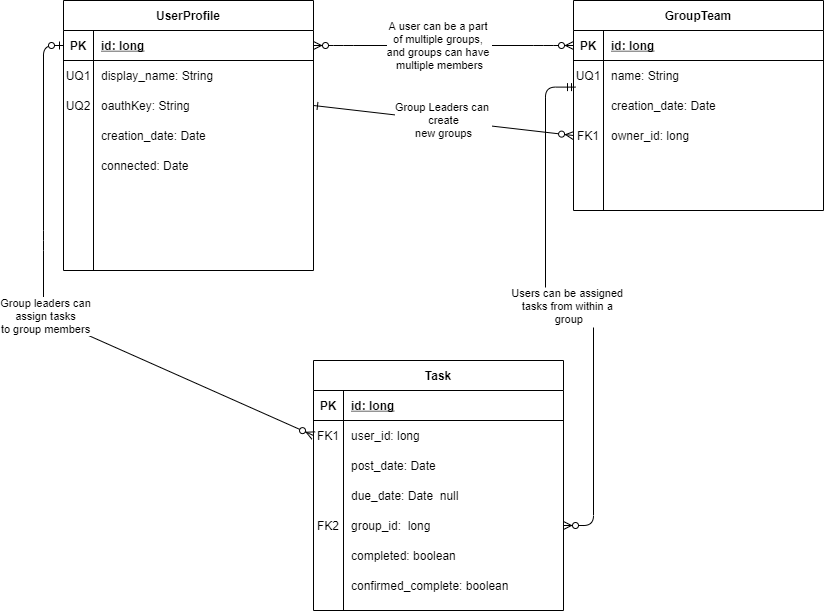
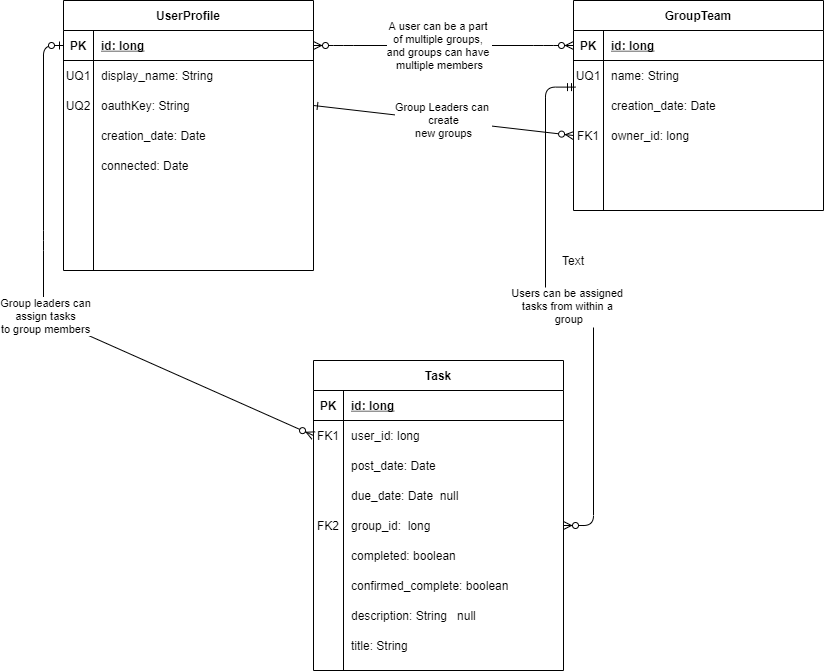
New DDL, updated ERD.

diff --git a/docs/ddl.md b/docs/ddl.md
@@ -11,12 +11,14 @@ create table group_team
 );
 create table task
 (
-    task_id            bigint    not null,
-    completed          boolean   not null,
-    confirmed_complete boolean   not null,
+    task_id            bigint       not null,
+    completed          boolean      not null,
+    confirmed_complete boolean      not null,
+    description        varchar(1024),
     due_date           timestamp,
-    post_date          timestamp not null,
-    group_id           bigint    not null,
+    post_date          timestamp    not null,
+    title              varchar(100) not null,
+    group_id           bigint       not null,
     user_id            bigint,
     primary key (task_id)
 );
